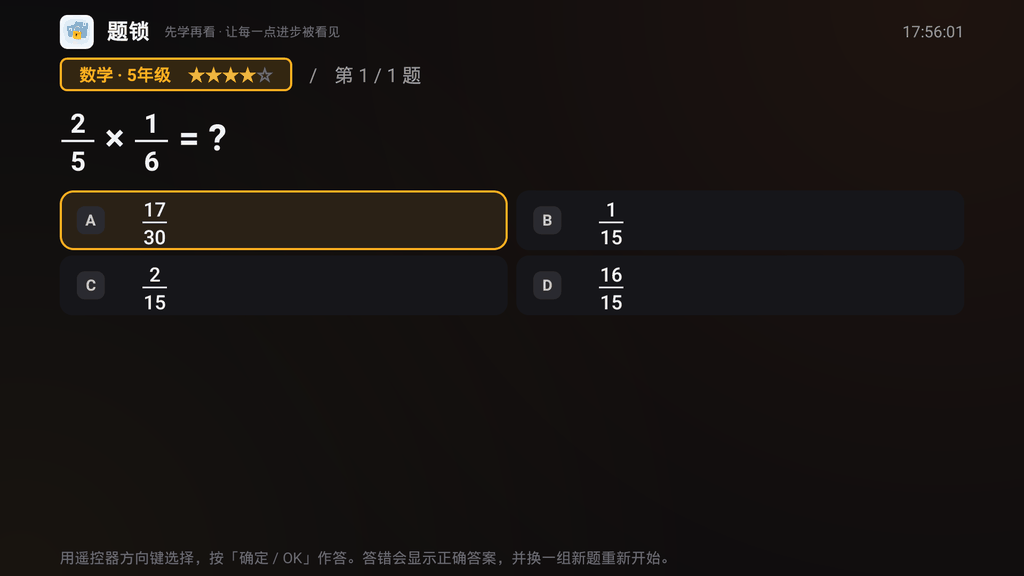
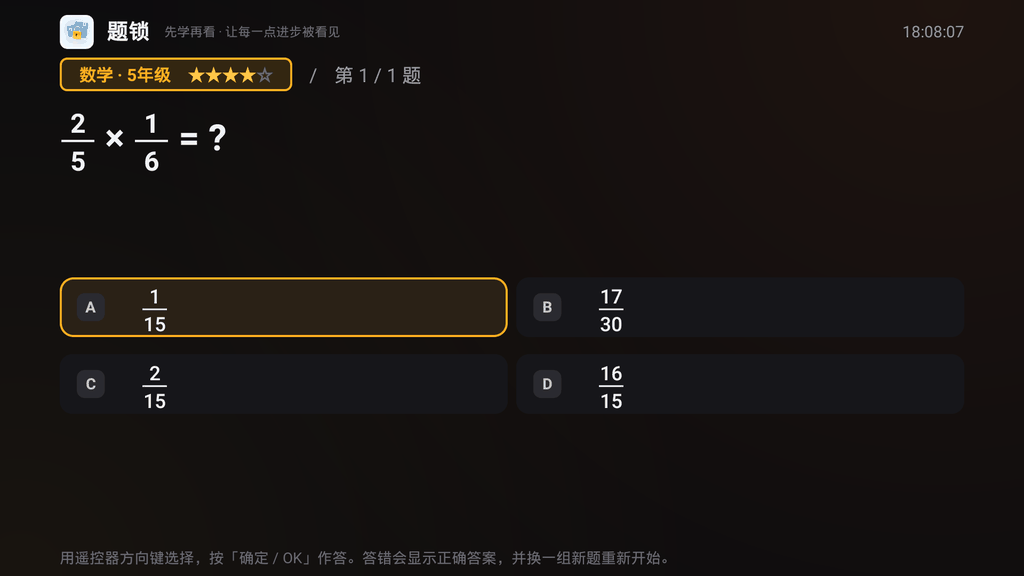
v1.10.1 两列答案垂直排版收口：整体下移 + 拉开两排间距
1) 两列只占两行，原来紧贴题干、下方大片空白，头重脚轻。
   在 optionBox 上方加一个默认 weight=0 的弹性 Space，两列时按 0.7:1
   与下方原有弹性空间分配剩余高度，选项组整体下移、上下留白均衡；
   内容超一屏时两个 Space 自动让位，不影响滚动。
   四行布局与选年级页把 weight 置回 0，观感一点不变。
2) 两排卡片原来只有 5dp 间距，几乎贴在一起。改为按行号区分：
   首行与题干仍 5dp，第二行起 topMargin 16dp。
3) QuizOptionLayoutTest 的旧断言「所有选项间距 ≤5dp」是给四行布局钉的
   （v1.7.27 防四项挤出屏），两列第二行 16dp 是刻意设计：
   改成按布局分别校验，并加一条「第二行必须明显大于 5dp」防止回退。
4) 电视实拍：2×2 四个分数、上下留白均衡、两排间距舒展、无裁切重叠；
   单测 261 项全绿；验证用临时题库已还原（24704 题 / v8 / 656 道 LaTeX /
   家长改的「亲近」保留）。
5) 更新 README 与 INSTALL 说明，替换归档截图，刷新 dist 双变体 APK。

diff --git a/app/src/main/java/com/family/studytv/QuizActivity.java b/app/src/main/java/com/family/studytv/QuizActivity.java
@@ -151,6 +151,7 @@ public class QuizActivity extends Activity {
     private TextView tvFeedback;
     private TextView tvQuizHint;
     private LinearLayout optionBox;
+    private View optionTopSpace;
     private ScrollView quizScroll;
 
     // ---- AI 错题讲解（v1.9.0）
@@ -251,6 +252,7 @@ public class QuizActivity extends Activity {
         tvFeedback = (TextView) findViewById(R.id.tvFeedback);
         tvQuizHint = (TextView) findViewById(R.id.tvQuizHint);
         optionBox = (LinearLayout) findViewById(R.id.optionBox);
+        optionTopSpace = findViewById(R.id.optionTopSpace);
         quizScroll = (ScrollView) findViewById(R.id.quizScroll);
         aiRow = (LinearLayout) findViewById(R.id.aiRow);
         btnAi = (Button) findViewById(R.id.btnAi);
@@ -331,6 +333,7 @@ public class QuizActivity extends Activity {
         tvQuestion.setText("今天想做几年级的题？");
         applyQuestionFont();
         feedback(0, "");
+        setOptionTopWeight(0f);
         optionBox.removeAllViews();
         final List<Integer> levels = allowedLevels();
         for (int k = 0; k < levels.size(); k++) {
@@ -449,9 +452,24 @@ public class QuizActivity extends Activity {
         }
     }
 
+    /** 两列布局把选项组往下带一点，上/下留白按 0.7:1 分；内容超一屏时 weight 自动让位。 */
+    private void setOptionTopWeight(float w) {
+        if (optionTopSpace == null || optionTopSpace.getLayoutParams() == null) {
+            return;
+        }
+        LinearLayout.LayoutParams lp =
+                (LinearLayout.LayoutParams) optionTopSpace.getLayoutParams();
+        if (lp.weight == w) {
+            return;
+        }
+        lp.weight = w;
+        optionTopSpace.setLayoutParams(lp);
+    }
+
     private void buildOptionViews(List<String> options) {
         optionBox.removeAllViews();
         boolean grid = useCompactGrid(options);
+        setOptionTopWeight(grid ? 0.7f : 0f);
         int n = options.size();
         int cols = grid ? 2 : 1;
         for (int k = 0; k < n; k += cols) {
@@ -466,13 +484,17 @@ public class QuizActivity extends Activity {
                 optionBox.addView(row);
             }
             int end = Math.min(n, k + cols);
+            int rowIndex = k / cols;
             for (int idx = k; idx < end; idx++) {
                 Button b = (Button) getLayoutInflater().inflate(
                         R.layout.item_option, optionBox, false);
                 if (grid) {
                     LinearLayout.LayoutParams lp = new LinearLayout.LayoutParams(
                             0, LinearLayout.LayoutParams.WRAP_CONTENT, 1f);
-                    lp.setMargins(idx == k ? 0 : px(b, 8f), px(b, 5f), 0, 0);
+                    // 两行之间要留够呼吸空间，5dp 会让上下两排卡片几乎贴在一起；
+                    // 第一行与题干仍保持 5dp，不然题目和答案会被拉开。
+                    int top = px(b, rowIndex > 0 ? 16f : 5f);
+                    lp.setMargins(idx == k ? 0 : px(b, 8f), top, 0, 0);
                     b.setLayoutParams(lp);
                 }
                 setOptionText(b, idx, options.get(idx), null, null);

diff --git a/app/src/test/java/com/family/studytv/QuizOptionLayoutTest.java b/app/src/test/java/com/family/studytv/QuizOptionLayoutTest.java
@@ -180,12 +180,22 @@ public class QuizOptionLayoutTest {
         float d = activity.getResources().getDisplayMetrics().density;
         java.util.List<Button> bs = buttons();
         assertTrue(bs.size() >= 2);
-        for (Button b : bs) {
+        // 两列布局时 optionBox 的直接子 View 是行容器；四行布局时就是 Button。
+        // 四行必须保持 5dp 才放得下四项；两列只有两行，第二行起刻意留 16dp 呼吸空间。
+        boolean grid = optionBox().getChildCount() > 0
+                && !(optionBox().getChildAt(0) instanceof Button);
+        for (int i = 0; i < bs.size(); i++) {
+            Button b = bs.get(i);
             assertTrue("选项最小高度要收紧到 56dp 以内，否则四选项同屏放不下",
                     b.getMinHeight() <= Math.round(56 * d) + 1);
             LinearLayout.LayoutParams lp = (LinearLayout.LayoutParams) b.getLayoutParams();
-            assertTrue("选项之间的间距要收紧到 5dp 以内",
-                    lp.topMargin <= Math.round(5 * d) + 1);
+            int limitDp = grid && i >= 2 ? 16 : 5;
+            assertTrue("第 " + i + " 项间距要收紧到 " + limitDp + "dp 以内",
+                    lp.topMargin <= Math.round(limitDp * d) + 1);
+            if (grid && i == 2) {
+                assertTrue("两列的第二行要明显拉开，别和第一排贴在一起",
+                        lp.topMargin > Math.round(5 * d));
+            }
         }
     }
 

diff --git a/README.md b/README.md
@@ -34,7 +34,7 @@
 
 **数学题库已改用 LaTeX** — 内置数学题里 656 道题、3500 多处分数从 `6/8` 这种斜杠写法换成了 `$\frac{6}{8}$`，电视上直接显示成真分数，和「6 除以 8」不再长得一样；`²` `³` 也从全角上标字符换成真上标（部分电视字体缺这两个字形会显示成方块）。语文、英语题一个字没动。
 
-**短答案两列显示** — 分数、单位、字母公式这类短答案自动排成 2×2 两行两列，遥控器上下左右按行列走；长答案（诗句、成语解释）仍保持原来的四行，不会被塞进半屏宽折成好几行。判据看的是**渲染后的可读长度**：`$\frac{17}{30}$` 原文十几个字符，屏上只是一个分数，照样算短答案。
+**短答案两列显示** — 分数、单位、字母公式这类短答案自动排成 2×2 两行两列，遥控器上下左右按行列走；长答案（诗句、成语解释）仍保持原来的四行，不会被塞进半屏宽折成好几行。判据看的是**渲染后的可读长度**：`$\frac{17}{30}$` 原文十几个字符，屏上只是一个分数，照样算短答案。两列时选项组整体下移、两排之间留出间距，上下留白均衡，不再堆在题干正下方。
 
 ![题锁 · 分数题两列（电视实拍）](docs/screenshots/tv-quiz-fraction-grid.png)
 

diff --git a/docs/INSTALL-ON-TV.md b/docs/INSTALL-ON-TV.md
@@ -691,6 +691,12 @@ if (file.exists() && file.length() > 32) {
   不依赖系统按坐标猜；
 - 两列只有半屏宽，左右 padding 从 30dp 收到 16dp；含公式时再叠一层
   上下 padding 与额外行距的收紧；
+- 垂直位置：在 `optionBox` 上方加一个默认 weight=0 的弹性 `Space`，
+  两列时按 0.7:1 与下方原有弹性空间分配剩余高度，选项组整体下移、
+  上下留白均衡；长答案内容超一屏时两个 Space 自动让位，不影响滚动。
+  选年级页与四行布局把 weight 置回 0，观感不变；
+- 两排卡片间距：首行与题干保持 5dp，第二行起 topMargin 加到 16dp，
+  否则 2×2 的上下两排会几乎贴在一起；
 - 反馈条和 AI 按钮一起出现会挤矮滚动区，此时收起底部操作提示，
   把高度还给选项区。
 
